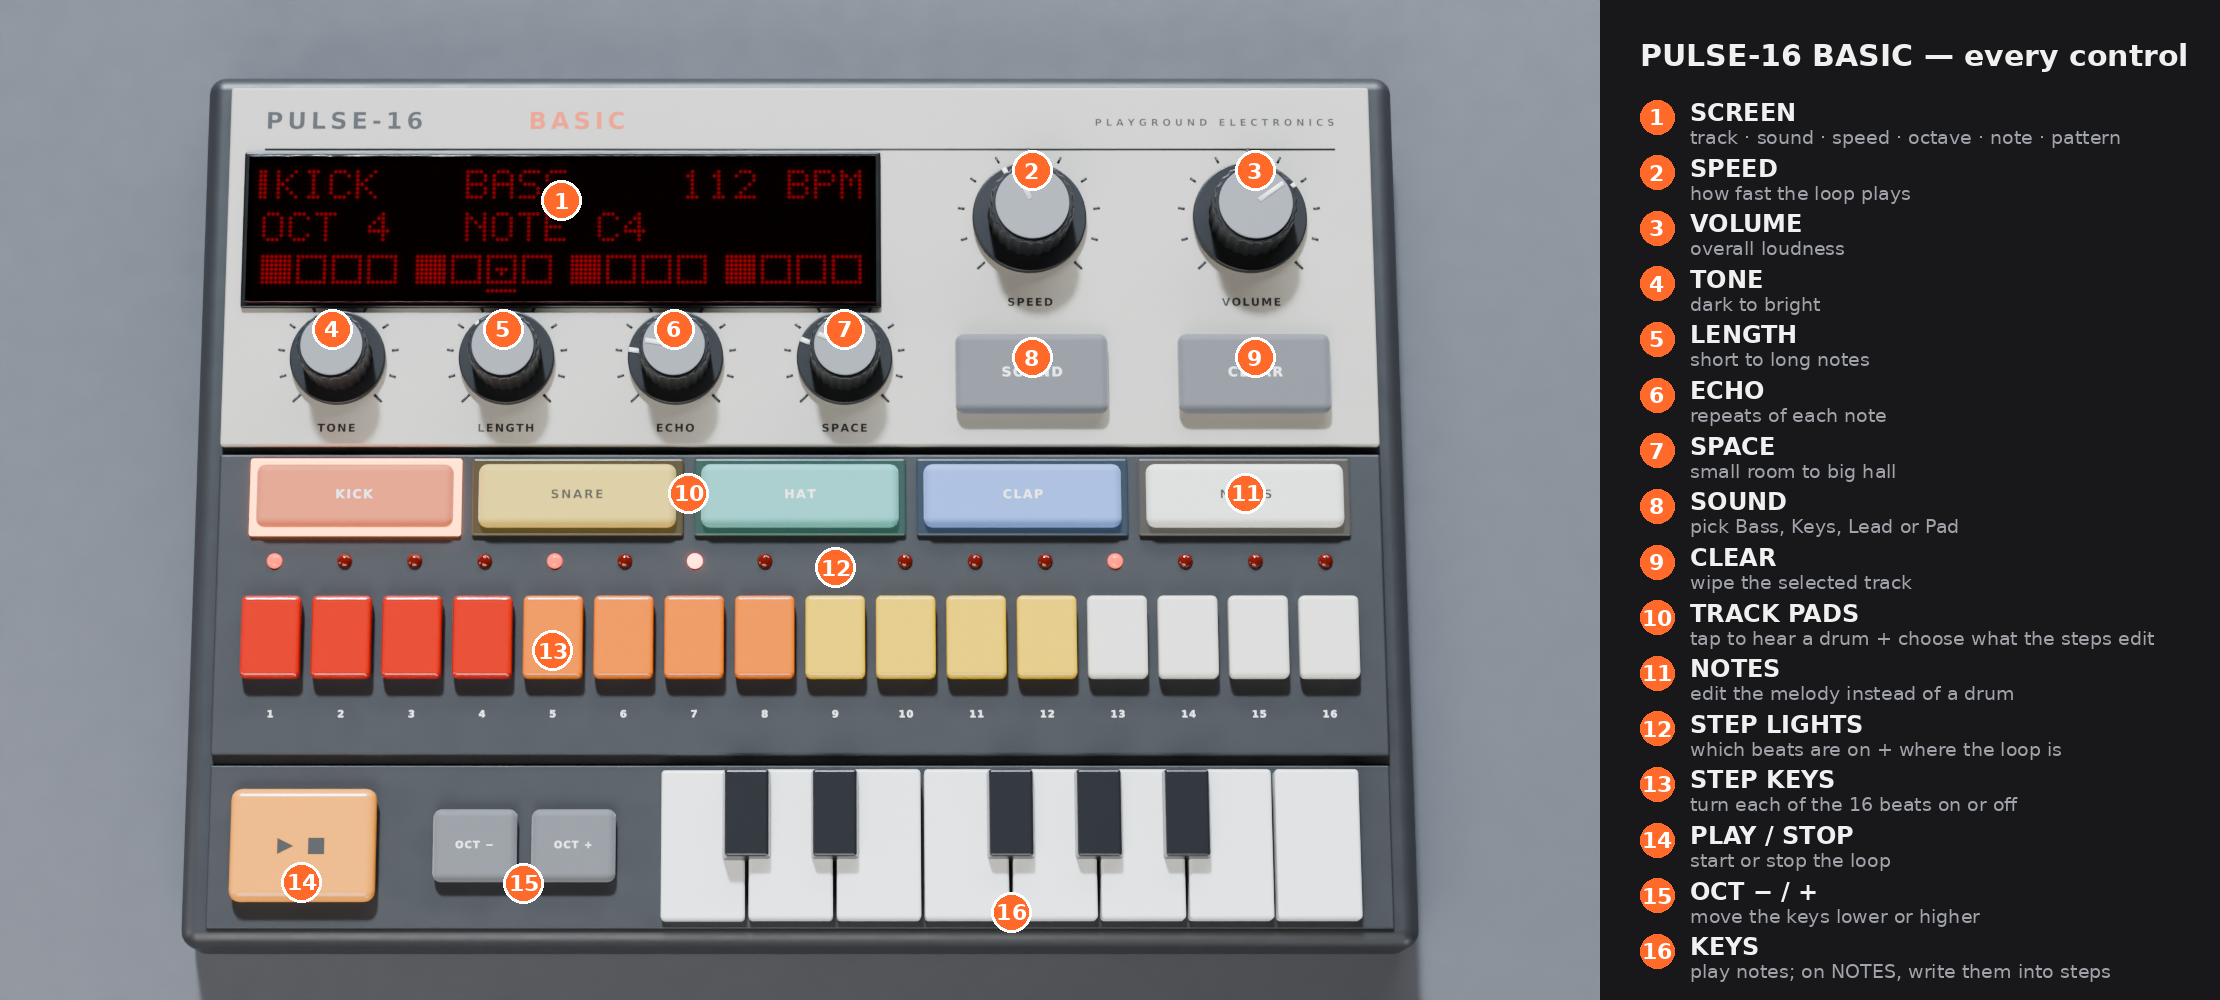
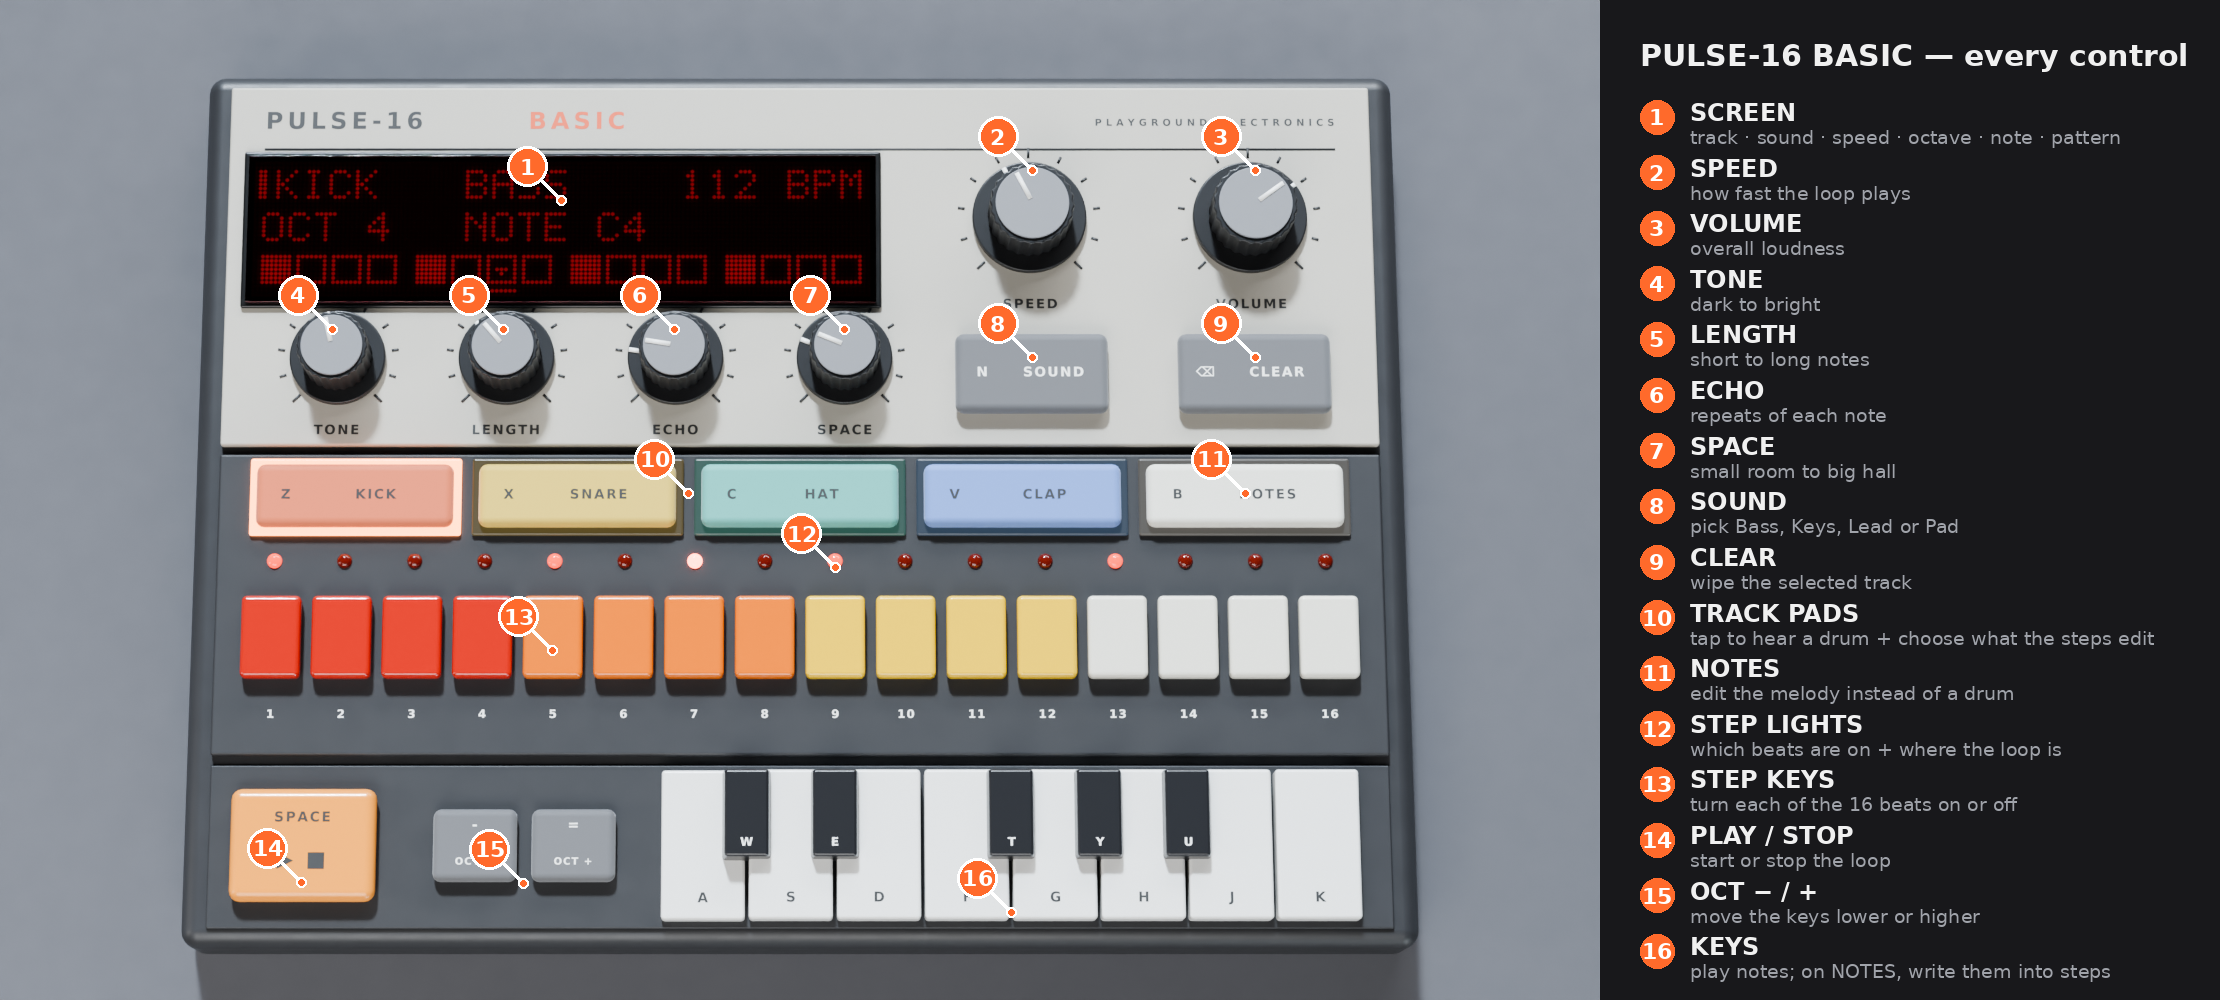
PULSE-16 BASIC: pad contrast, larger labels, printed keyboard hints
Dark ink on all track pads, ~20% larger control labels, keyboard-shortcut
letters printed flat on each control (pads Z-B, SOUND N, CLEAR, PLAY SPACE,
OCT -/=) and on the piano keys; callout guide markers now sit beside
controls with leader lines. Design renders updated.

Claude-Session: https://claude.ai/code/session_01PzFcu1yYqQizogUuoyHg8c

diff --git a/blender/build_basic.py b/blender/build_basic.py
@@ -31,6 +31,11 @@ def callout(title, job, pos):
     CALLOUTS.append((len(CALLOUTS) + 1, title, job, pos))
 
 
+def keycap(label, x, y, z, m, ink='ink'):
+    """Keyboard-shortcut hint printed flat on the control, same style as the letters on the piano keys."""
+    c.text(label, (x, y, z + 0.001), 0.12, m[ink], font=c.FONT_BOLD)
+
+
 def check_bounds():
     bad = []
     for name, plate, x0, x1, y0, y1 in FOOTPRINTS:
@@ -96,7 +101,7 @@ def build():
 
     for x, name, n, job in [(1.3, 'SPEED', 0.4, 'how fast the loop plays'), (2.55, 'VOLUME', 0.7, 'overall loudness')]:
         knob(name.lower(), x, 1.62, 0.24, n, m)
-        c.text(name, (x, 1.13, z), 0.1, m['ink'])
+        c.text(name, (x, 1.12, z), 0.12, m['ink'])
         place(name, 'upper', x, 1.45, 0.8, 0.8)
         callout(name, job, (x, 1.62, TOP + 0.3))
 
@@ -105,18 +110,19 @@ def build():
                                         ('ECHO', 0.2, 'repeats of each note'), ('SPACE', 0.25, 'small room to big hall')]):
         kx = -2.6 + i * 0.95
         knob(name.lower(), kx, 0.8, 0.2, n, m)
-        c.text(name, (kx, 0.4, z), 0.1, m['ink'])
+        c.text(name, (kx, 0.39, z), 0.12, m['ink'])
         place(name, 'upper', kx, 0.62, 0.7, 0.62)
         callout(name, job, (kx, 0.8, TOP + 0.28))
     for x, name, job in [(1.3, 'SOUND', 'pick Bass, Keys, Lead or Pad'), (2.55, 'CLEAR', 'wipe the selected track')]:
         c.box(f'btn_{name.lower()}', (0.86, 0.46, 0.1), (x, 0.7, TOP), m['btn'], bev=0.05, seg=4)
-        c.text(name, (x, 0.7, TOP + 0.101), 0.12, m['ink_w'])
+        c.text(name, (x + 0.12, 0.7, TOP + 0.101), 0.12, m['ink_w'])
+        keycap({'SOUND': 'N', 'CLEAR': '⌫'}[name], x - 0.28, 0.7, TOP + 0.1, m, 'ink_w')
         place(name, 'upper', x, 0.7, 0.86, 0.46)
         callout(name, job, (x, 0.7, TOP + 0.1))
 
     # --- middle: 5 track pads above the 16 steps -------------------------------------
-    tracks = [('KICK', (0.55, 0.12, 0.05), (1, 0.3, 0.1), 'ink_w'), ('SNARE', (0.62, 0.44, 0.07), (1, 0.75, 0.2), 'ink'),
-              ('HAT', (0.1, 0.38, 0.33), (0.3, 1, 0.8), 'ink_w'), ('CLAP', (0.14, 0.24, 0.55), (0.35, 0.6, 1), 'ink_w'),
+    tracks = [('KICK', (0.55, 0.12, 0.05), (1, 0.3, 0.1), 'ink'), ('SNARE', (0.62, 0.44, 0.07), (1, 0.75, 0.2), 'ink'),
+              ('HAT', (0.1, 0.38, 0.33), (0.3, 1, 0.8), 'ink'), ('CLAP', (0.14, 0.24, 0.55), (0.35, 0.6, 1), 'ink'),
               ('NOTES', (0.7, 0.68, 0.6), (1, 0.95, 0.85), 'ink')]
     pitch = 6.2 / len(tracks)
     for i, (name, col, glow, ink) in enumerate(tracks):
@@ -124,7 +130,8 @@ def build():
         sel = name == 'KICK'
         c.box(f'track_{name.lower()}_rim', (pitch - 0.06, 0.44, 0.03), (px, 0.0, TOP), c.emissive(f'rim{i}', glow, 10.0 if sel else 0.15), bev=0.04, seg=4)
         c.box(f'track_{name.lower()}', (pitch - 0.14, 0.36, 0.1), (px, 0.0, TOP), c.rubber(f'pad{i}', col, 0.7, glow if sel else None, 0.25 if sel else 0), bev=0.06, seg=4)
-        c.text(name, (px, 0.0, TOP + 0.101), 0.11, m[ink])
+        c.text(name, (px + 0.12, 0.0, TOP + 0.101), 0.12, m[ink])
+        keycap('ZXCVB'[i], px - pitch / 2 + 0.24, 0.0, TOP + 0.1, m)
         place(f'track_{name}', 'strip', px, 0.0, pitch - 0.06, 0.44)
     callout('TRACK PADS', 'tap to hear a drum + choose what the steps edit', (-0.62, 0.0, TOP + 0.1))
     callout('NOTES', 'edit the melody instead of a drum', (-3.1 + pitch * 4.5, 0.0, TOP + 0.1))
@@ -134,20 +141,22 @@ def build():
         c.box(f'step_{i}', (0.33, 0.46, 0.1), (sx_, -0.8, TOP), steps[i // 4], bev=0.03, seg=4)
         lm = m['led_on'] if i == PLAYHEAD else m['led_used'] if i in SELECTED_STEPS else m['led_off']
         c.dome(f'led_{i}', 0.042, 0.028, (sx_, -0.36, TOP), lm)
-        c.text(str(i + 1), (sx_, -1.22, z), 0.085, m['ink_w'])
+        c.text(str(i + 1), (sx_, -1.22, z), 0.1, m['ink_w'])
         place(f'step_{i}', 'strip', sx_, -0.8, 0.33, 0.46)
     callout('STEP LIGHTS', 'which beats are on + where the loop is', (0.2, -0.36, TOP))
     callout('STEP KEYS', 'turn each of the 16 beats on or off', (-1.365, -0.8, TOP + 0.1))
 
     # --- front: PLAY, OCT, keys ----------------------------------------------------------
     c.box('btn_play', (0.8, 0.62, 0.12), (-2.72, -1.95, WELL), m['play'], bev=0.06, seg=4)
-    c.text('▶ ■', (-2.72, -1.95, WELL + 0.121), 0.2, m['ink'], font=c.FONT_REG)
+    c.text('▶ ■', (-2.72, -2.03, WELL + 0.121), 0.2, m['ink'], font=c.FONT_REG)
+    keycap('SPACE', -2.72, -1.8, WELL + 0.12, m)
     place('PLAY', 'well', -2.72, -1.95, 0.8, 0.62)
     callout('PLAY / STOP', 'start or stop the loop', (-2.72, -1.95, WELL + 0.12))
     for i, label in enumerate(['OCT −', 'OCT +']):
         bx = -1.78 + i * 0.54
         c.box(f'btn_oct{i}', (0.46, 0.4, 0.09), (bx, -1.95, WELL), m['btn'], bev=0.045, seg=4)
-        c.text(label, (bx, -1.95, WELL + 0.091), 0.085, m['ink_w'], font=c.FONT_BOLD)
+        c.text(label, (bx, -2.04, WELL + 0.091), 0.085, m['ink_w'], font=c.FONT_BOLD)
+        keycap('-='[i], bx, -1.84, WELL + 0.09, m, 'ink_w')
         place(label, 'well', bx, -1.95, 0.46, 0.4)
     callout('OCT − / +', 'move the keys lower or higher', (-1.51, -1.95, WELL + 0.09))
 
@@ -155,6 +164,15 @@ def build():
     white_w = 0.48
     x0 = (zone0 + zone1) / 2 - 4 * white_w
     c.keybed('key', x0, -2.36, white_w, 0.82, 0.5, WELL, m, gap=0.022, white_h=0.14, black_h=0.09, count=13, pressed=(0,))
+    white_i, letters = -1, 'AWSEDFTGYHUJK'
+    for i, ch in enumerate(letters):
+        sharp = i % 12 in c.NOTE_SHARP
+        if not sharp:
+            white_i += 1
+        if sharp:
+            c.text(ch, (x0 + (white_i + 1) * white_w, -1.95, WELL + 0.232), 0.1, m['ink_w'], font=c.FONT_BOLD)
+        else:
+            c.text(ch, (x0 + white_i * white_w + white_w / 2, -2.24, WELL + 0.141 - (0.04 if i == 0 else 0)), 0.12, m['ink'], font=c.FONT_BOLD)
     place('keys', 'well', (zone0 + zone1) / 2, -1.95, 8 * white_w, 0.82)
     callout('KEYS', 'play notes; on NOTES, write them into steps', ((zone0 + zone1) / 2, -2.1, WELL + 0.15))
 

diff --git a/blender/callouts.py b/blender/callouts.py
@@ -23,7 +23,10 @@ def compose(render_path, callouts_path, out_path, legend_w=620):
 
     r = 17
     for it in items:
-        x, y = it['x'] * w, it['y'] * h
+        px, py = it['x'] * w, it['y'] * h
+        x, y = px - 34, py - 34  # marker sits beside the control, leader line points at it
+        d.line([(x, y), (px, py)], fill=(255, 255, 255), width=3)
+        d.ellipse([px - 5, py - 5, px + 5, py + 5], fill=ORANGE, outline=(255, 255, 255), width=2)
         d.ellipse([x - r - 3, y - r - 3, x + r + 3, y + r + 3], fill=(255, 255, 255))
         d.ellipse([x - r, y - r, x + r, y + r], fill=ORANGE)
         d.text((x, y), str(it['n']), font=num_f, fill=(255, 255, 255), anchor='mm')
